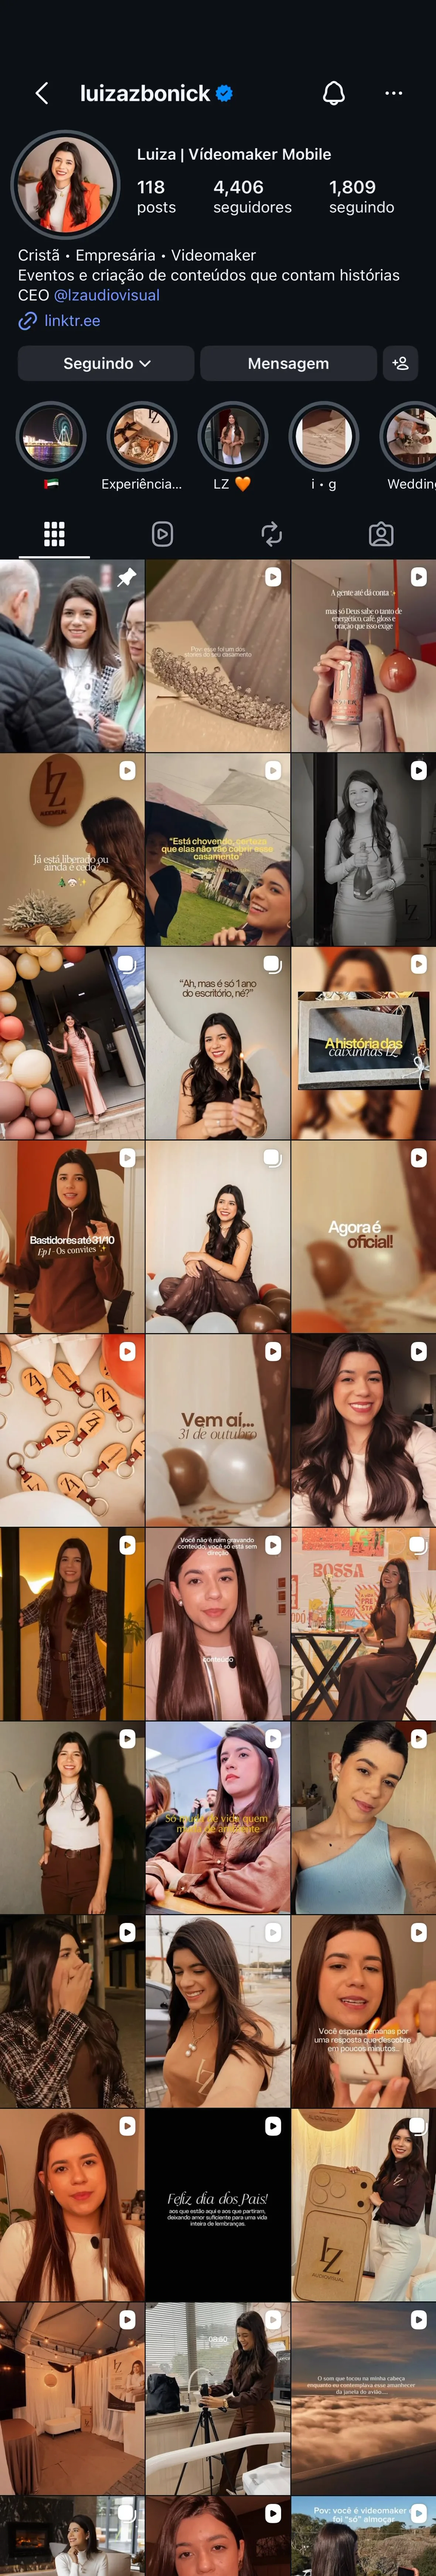
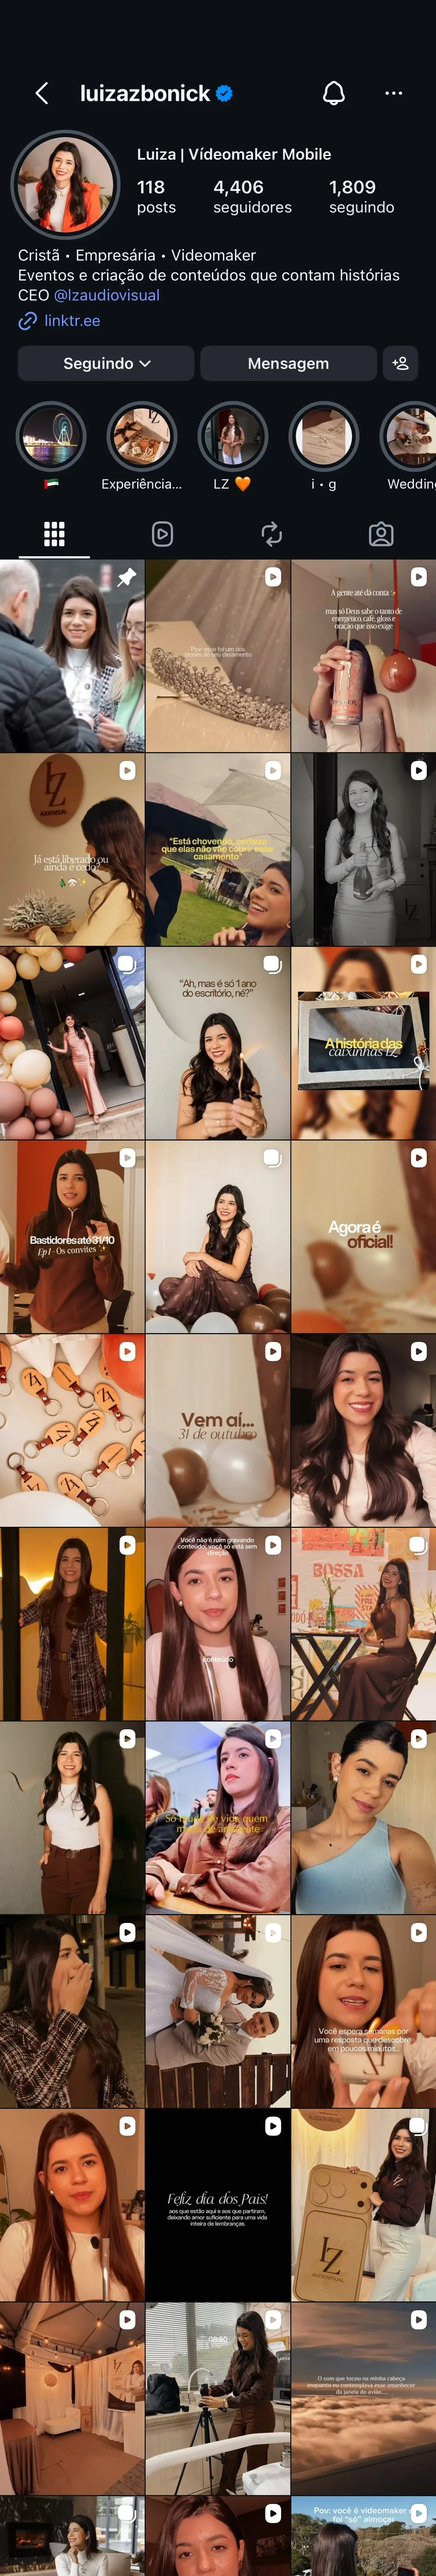
Miniatura do 1º reel na grade e abertura a partir dela
Claude-Session: https://claude.ai/code/session_011WHmVTgwxfZm9RTyoVcwsT

Changed region(s): [[0.3356, 0.7161, 0.6712, 0.8406]]

diff --git a/index.html b/index.html
@@ -88,7 +88,7 @@
         .ps-tile { position: absolute; inset: auto; background: rgba(0, 0, 0, 0.35); opacity: 0; pointer-events: none; }
         .ps-photo { position: absolute; inset: auto; overflow: hidden; opacity: 0; background: #000; will-change: left, top, width, height, opacity; }
         .ps-photo { background: #0d1014; }
-        .ps-reel-v { position: absolute; left: 0; top: 0; width: 100%; height: 100%; object-fit: fill; display: block; will-change: transform; }
+        .ps-reel-v { position: absolute; left: 0; top: 0; width: 100%; height: 100%; object-fit: fill; display: block; max-width: none; will-change: transform; }
         .ps-touch { position: absolute; z-index: 7; inset: auto; left: 0; top: 0; width: 66px; height: 66px; margin: -33px 0 0 -33px; border-radius: 50%; background: rgba(255, 255, 255, 0.4); box-shadow: 0 0 0 2px rgba(255, 255, 255, 0.75); opacity: 0; will-change: transform, opacity; }
         .ps-notes { display: none; }
         .ps-end { position: absolute; left: 0; right: 0; padding: 0 24px; text-align: center; opacity: 0; pointer-events: none; will-change: opacity, transform; }
@@ -565,8 +565,10 @@
             // perfil do Instagram montado numa imagem só (1180 px de largura), que rola dentro da tela
             const IG_W = 1180, IG_H = 6970, IG_BAR = 325, IG_TABS = 1385;
             const K = SCREEN_W / IG_W, IG_END = IG_H - SCREEN_H / K;
-            // foto da grade tocada no fim da rolagem (a da placa LZ), em pixels da tela do celular
-            const TILE = { x: 788 * K, y: (5710 - IG_END) * K, w: (IG_W - 788) * K, h: 521 * K };
+            // miniatura da grade tocada no fim da rolagem (o 1º quadro do 1º reel), em pixels da tela do celular
+            const TILE = { x: 394 * K, y: (5182 - IG_END) * K, w: 392 * K, h: 521 * K };
+            // pedaço do vídeo que aparece na miniatura (frações do quadro): o reel abre a partir desse recorte
+            const CROP = { x: 0, y: 180 / 1096 }, CROP_S = TILE.w / ((450 / 540) * SCREEN_W);
             // momentos da cena: o vídeo rola com o scroll, um toque na foto, a foto abre em tela cheia
             // o perfil rola, um toque abre o primeiro reel, e um arrastar para cima passa para o segundo
             const SCRUB = [0.08, 0.46], TAP = [0.45, 0.52], OPEN = [0.51, 0.58], SWIPE = [0.64, 0.71];
@@ -621,7 +623,7 @@
                 igTabs.style.transform = 'translate3d(0,' + (Math.max(IG_BAR, IG_TABS - off) * K).toFixed(2) + 'px,0)';
                 igBarScroll.style.opacity = clamp(off / 200);
 
-                // toque na foto da placa LZ
+                // toque na miniatura do reel
                 const tp = part(p, TAP[0], TAP[1]);
                 const pressed = Math.sin(Math.PI * part(tp, 0.4, 0.85));
                 const cx = TILE.x + TILE.w * 0.45, cy = TILE.y + TILE.h * 0.5;
@@ -642,7 +644,8 @@
                 reels[0].style.transform = 'translate3d(0,' + (-drag * 100) + '%,0)';
                 reels[1].style.transform = 'translate3d(0,' + ((1 - drag) * 100) + '%,0)';
                 if (visible && !reduced) {
-                    setPlaying(reels[0], p >= OPEN[0] - 0.02 && p < SWIPE[1]);
+                    setPlaying(reels[0], p >= OPEN[1] - 0.004 && p < SWIPE[1]);
+                    if (p < OPEN[0] && reels[0].currentTime > 0) reels[0].currentTime = 0;
                     setPlaying(reels[1], p > SWIPE[0]);
                 }
 
@@ -653,6 +656,11 @@
                     width: mix(TILE.w, SCREEN_W, op) + 'px', height: mix(TILE.h, SCREEN_H, op) + 'px',
                     opacity: p >= OPEN[0] ? 1 : 0
                 });
+                const vs = mix(CROP_S, 1, op);
+                reels.forEach((v) => Object.assign(v.style, {
+                    width: SCREEN_W * vs + 'px', height: SCREEN_H * vs + 'px',
+                    left: mix(-CROP.x * SCREEN_W * CROP_S, 0, op) + 'px', top: mix(-CROP.y * SCREEN_H * CROP_S, 0, op) + 'px'
+                }));
 
                 [[0.08, 0.3], [0.3, 0.52], [0.52, 0.7]].forEach(([a, b], i) => {
                     if (!notes[i]) return;
